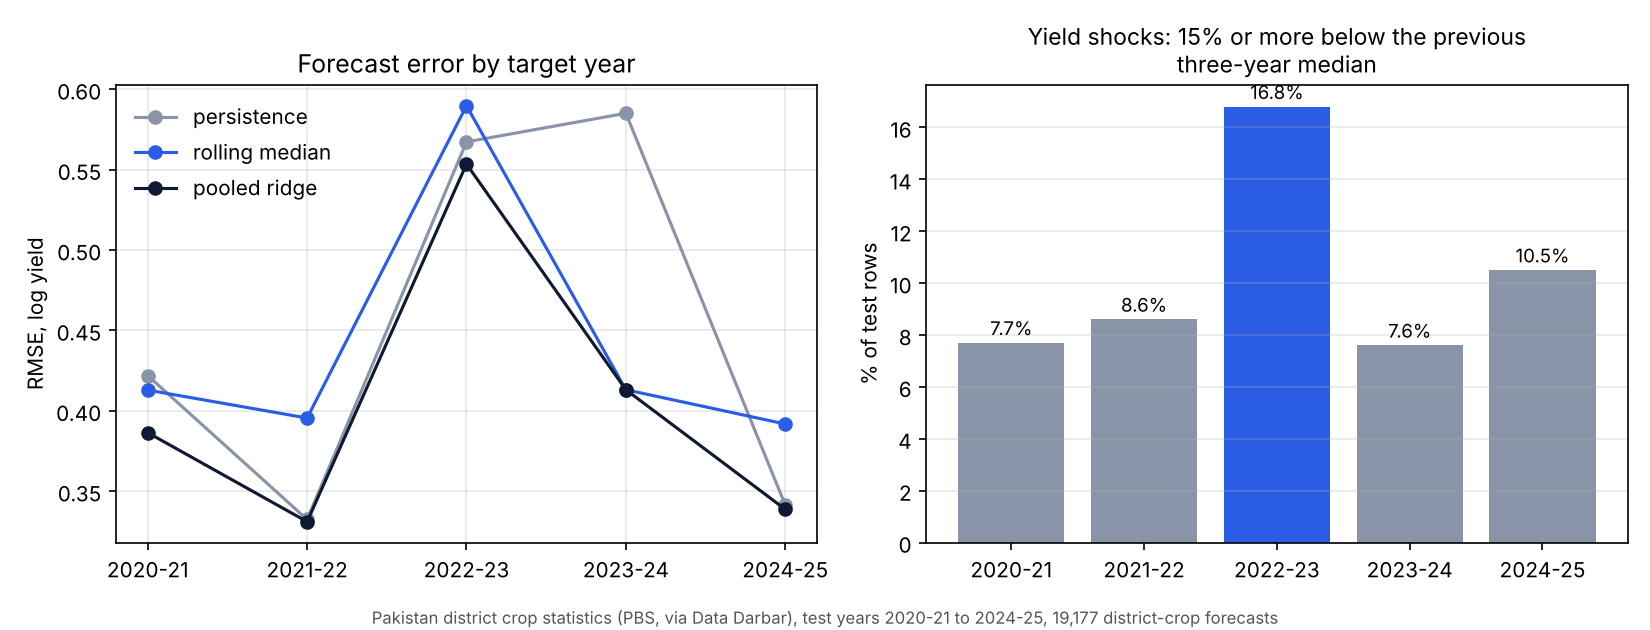
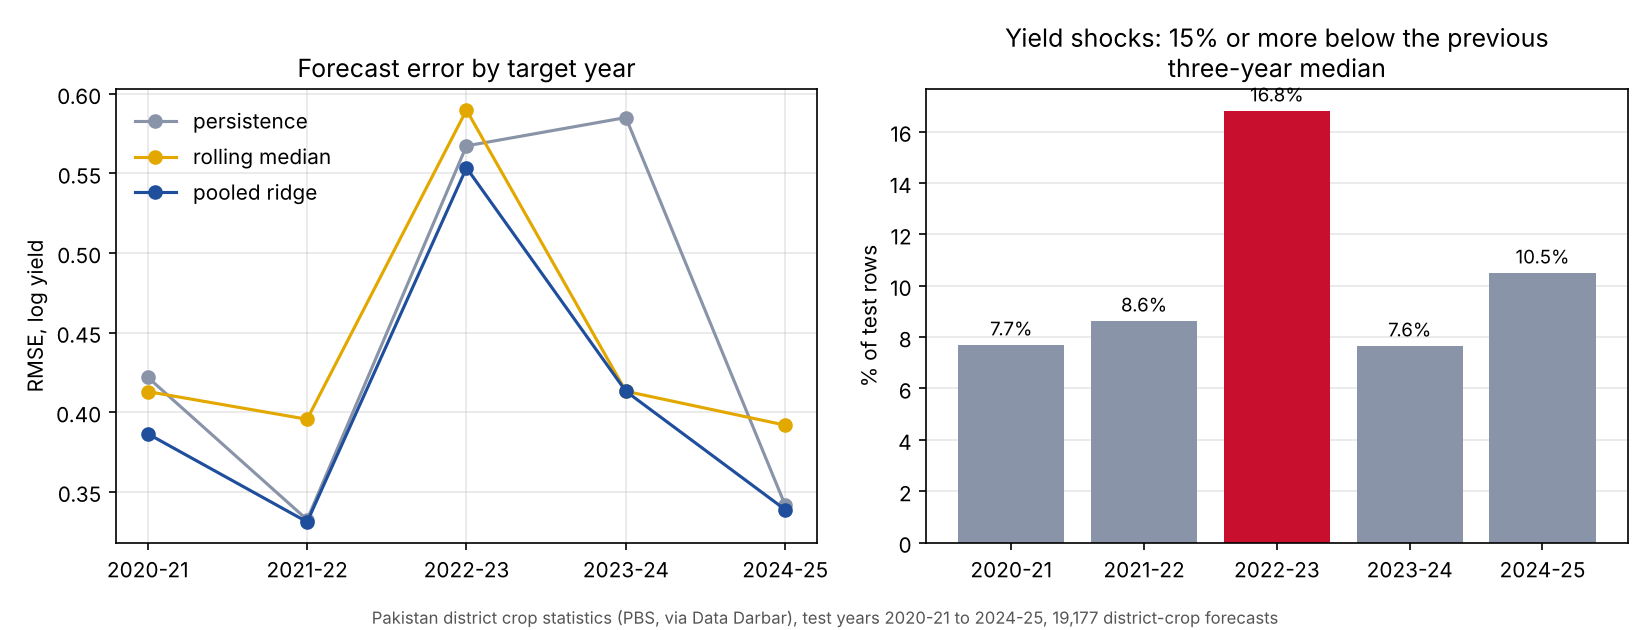
Use the house chart colours

diff --git a/scripts/website_figures.py b/scripts/website_figures.py
@@ -1,0 +1,62 @@
+"""Forecast error and yield-shock rate by target year, from outputs/pbs/report.json.
+
+    python scripts/website_figures.py --out docs/figures
+"""
+import argparse
+import json
+from pathlib import Path
+
+import matplotlib
+matplotlib.use("Agg")
+import matplotlib.pyplot as plt  # noqa: E402
+
+ROOT = Path(__file__).resolve().parents[1]
+# House palette: blue, yellow, red, light green; grey for the naive baseline
+BLUE, YELLOW, RED, GREY = "#1F4E9C", "#E3A800", "#C8102E", "#8a94a8"
+MODELS = [("persistence", "persistence", GREY), ("rolling_median", "rolling median", YELLOW),
+          ("pooled_ridge", "pooled ridge", BLUE)]
+
+
+def season(year: str) -> str:
+    y = int(year)
+    return "%d-%02d" % (y, (y + 1) % 100)
+
+
+def main() -> None:
+    ap = argparse.ArgumentParser()
+    ap.add_argument("--out", default="docs/figures")
+    out = Path(ap.parse_args().out)
+    out.mkdir(parents=True, exist_ok=True)
+    report = json.loads((ROOT / "outputs" / "pbs" / "report.json").read_text())
+    by_year = report["by_year"]
+    labels = [season(r["target_year"]) for r in by_year]
+
+    fig, (left, right) = plt.subplots(1, 2, figsize=(11, 4.2))
+    for key, name, colour in MODELS:
+        left.plot(labels, [r["rmse_log_" + key] for r in by_year], marker="o", color=colour, label=name)
+    left.set_title("Forecast error by target year")
+    left.set_ylabel("RMSE, log yield")
+    left.grid(alpha=0.3)
+    left.legend(frameon=False)
+
+    rates = [100 * r["shock_rate"] for r in by_year]
+    worst = max(range(len(rates)), key=rates.__getitem__)
+    colours = [RED if i == worst else GREY for i in range(len(rates))]
+    right.bar(labels, rates, color=colours)
+    for x, v in zip(labels, rates):
+        right.text(x, v + 0.2, "%.1f%%" % v, ha="center", va="bottom", fontsize=9)
+    right.set_title("Yield shocks: 15% or more below the previous\nthree-year median")
+    right.set_ylabel("% of test rows")
+    right.grid(axis="y", alpha=0.3)
+    right.set_axisbelow(True)
+
+    fig.text(0.5, 0.01, "Pakistan district crop statistics (PBS, via Data Darbar), test years %s to %s, "
+             "{:,} district-crop forecasts".format(report["test_rows"]) % (labels[0], labels[-1]),
+             ha="center", fontsize=8, color="#555555")
+    fig.tight_layout(rect=(0, 0.04, 1, 1))
+    fig.savefig(out / "error_and_shocks_by_year.png", dpi=150)
+    print("wrote", out / "error_and_shocks_by_year.png")
+
+
+if __name__ == "__main__":
+    main()

diff --git a/src/harvestguard_pk/report.py b/src/harvestguard_pk/report.py
@@ -116,7 +116,7 @@ def _plot(by_year: Sequence[Dict[str, object]], by_crop: Sequence[Dict[str, obje
         print("matplotlib not installed; skipping figures (pip install -r requirements.txt)")
         return
     out.mkdir(parents=True, exist_ok=True)
-    colours = {"persistence": "#8a94a8", "rolling_median": "#2b5ce6", "pooled_ridge": "#0f1932"}
+    colours = {"persistence": "#8a94a8", "rolling_median": "#E3A800", "pooled_ridge": "#1F4E9C"}
     fig, ax = plt.subplots(figsize=(7, 4))
     years = [int(str(e["target_year"])) for e in by_year]
     for label, _ in FORECASTERS:
